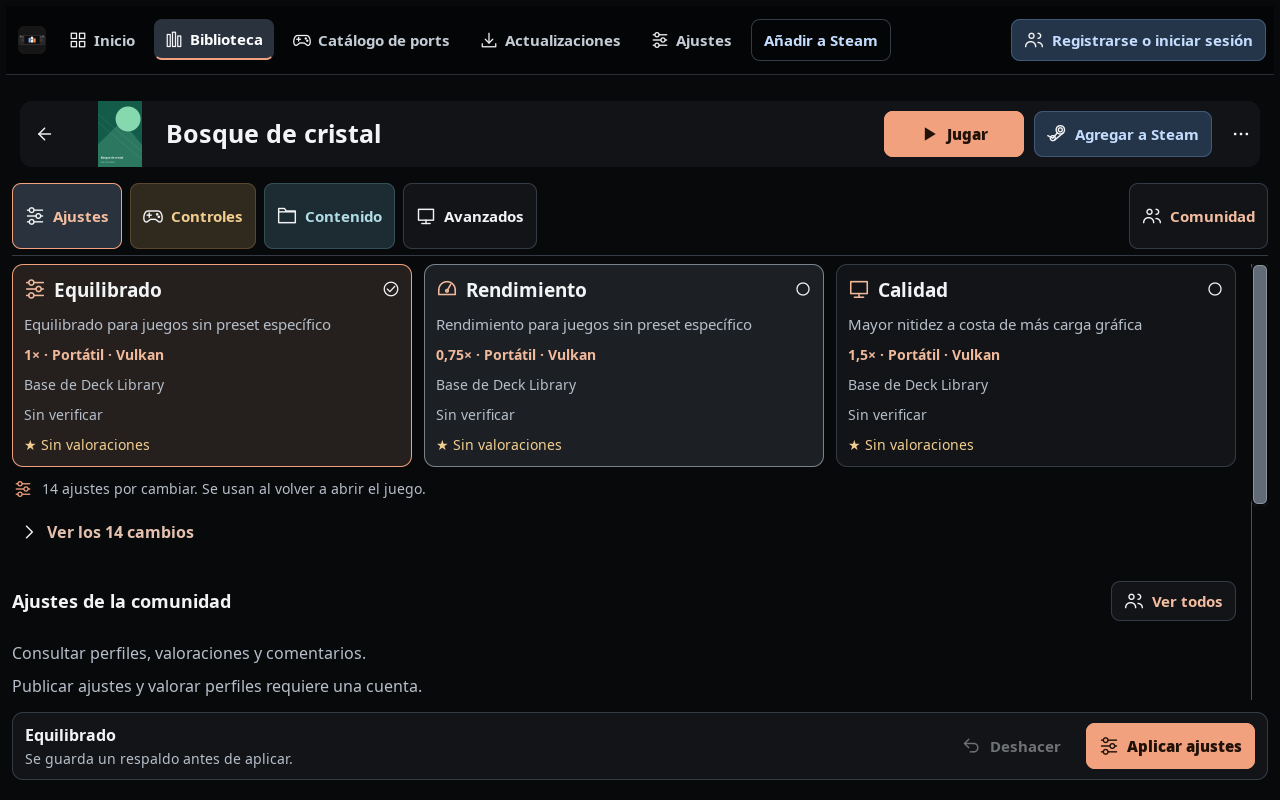
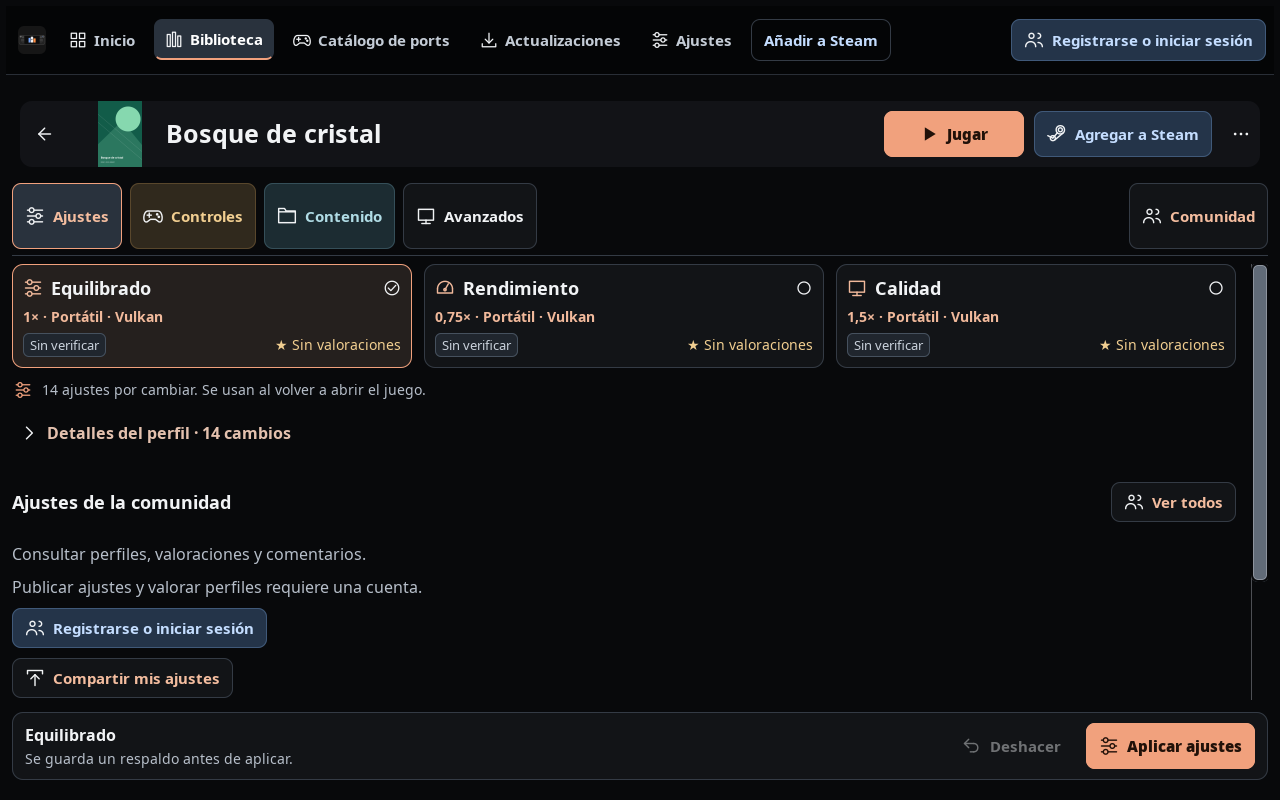
Color port badges and compact profiles with expandable details

diff --git a/deck_library/gui_game.py b/deck_library/gui_game.py
@@ -3,7 +3,7 @@ import json
 from gi.repository import Gtk, GLib, Pango
 from . import presets, motion, profile_display as display
 from .artwork import find_cover
-from .ui_components import ActionButton, TaskButton, Icon, Reveal, GameBackdrop, styled, text, tooltip_when_cut
+from .ui_components import ActionButton, TaskButton, Icon, Reveal, GameBackdrop, styled, text, tooltip_when_cut, badge
 
 
 class GameMixin:
@@ -308,10 +308,10 @@ class GameMixin:
         card = Gtk.Button()
         styled(card, 'profile-card')
         card.profile_id = profile['id']
-        body = Gtk.Box(orientation=Gtk.Orientation.VERTICAL, spacing=10)
+        body = Gtk.Box(orientation=Gtk.Orientation.VERTICAL, spacing=6)
         top = Gtk.Box(spacing=8)
         icon_name, description = display.intent(profile)
-        top.pack_start(styled(Icon(icon_name,22),'violet-icon'), False, False, 0)
+        top.pack_start(styled(Icon(icon_name,20),'violet-icon'), False, False, 0)
         title = text(display.title(profile), 'profile-title', 26)
         title.set_lines(2)
         title.set_ellipsize(Pango.EllipsizeMode.END)
@@ -319,19 +319,14 @@ class GameMixin:
         card.selection_icon = Icon('radio',18)
         top.pack_end(card.selection_icon, False, False, 0)
         body.pack_start(top, False, False, 0)
-        subtitle = text(description,'muted',40)
-        subtitle.set_lines(2)
-        subtitle.set_ellipsize(Pango.EllipsizeMode.END)
-        body.pack_start(subtitle, True, True, 0)
         values = display.highlights(profile)
         summary = ' · '.join(value for _,value in values)
-        body.pack_start(text(summary or profile['author'], 'profile-spec', 40), False, False, 0)
+        spec=text(summary or description, 'profile-spec', 40);spec.set_line_wrap(False);spec.set_ellipsize(Pango.EllipsizeMode.END);body.pack_start(spec, False, False, 0)
         state = display.verification(profile)+(' · Favorito' if favourite else '')
-        source='Integrado en Deck Library' if presets.is_bundled(profile) else 'Comunidad' if profile['id'].startswith('community-') else 'Base de Deck Library' if profile['id'].endswith(('-default','-performance','-quality','-compatibility')) and profile['id'].startswith('eden-') else 'Perfil local'
-        body.pack_start(text(source,'meta',40),False,False,0)
-        body.pack_start(text(state, 'good' if profile['tested']['status']!='proposal' else 'meta', 40), False, False, 0)
-        card.rating_label=text('★ Sin valoraciones','rating',40)
-        body.pack_start(card.rating_label,False,False,0)
+        foot=Gtk.Box(spacing=8)
+        verified=badge(display.verification(profile),'green' if profile['tested']['status']!='proposal' else 'neutral',22);verified.set_tooltip_text(state);foot.pack_start(verified,False,False,0)
+        card.rating_label=text('★ Sin valoraciones','rating',20);card.rating_label.set_line_wrap(False);card.rating_label.set_ellipsize(Pango.EllipsizeMode.END)
+        foot.pack_end(card.rating_label,False,False,0);body.pack_start(foot,False,False,0)
         card.add(body)
         card.get_accessible().set_name(display.title(profile)+' · '+description+' · '+state)
         card.set_tooltip_text(profile['name']+'\n'+profile['objective'])
@@ -347,8 +342,10 @@ class GameMixin:
         details = Gtk.Box(orientation=Gtk.Orientation.VERTICAL,spacing=12)
         details.set_border_width(12)
         styled(details,'change-details')
+        objective=text('','title',100);details.pack_start(objective,False,False,0)
         provenance = text('', 'meta', 100)
         details.pack_start(provenance,False,False,0)
+        specifications=text('','profile-spec',100);details.pack_start(specifications,False,False,0)
         notes = text('', 'muted',100)
         details.pack_start(notes,False,False,0)
         changes = Gtk.Box(orientation=Gtk.Orientation.VERTICAL,spacing=6)
@@ -388,18 +385,22 @@ class GameMixin:
                 card.selection_icon.queue_draw()
                 card.get_accessible().set_description('Seleccionado' if active else 'Seleccionar perfil')
             self.profile_dock_title.set_text(display.title(profile))
-            provenance.set_text(profile['author']+' · '+display.verification(profile)+' · '+', '.join(profile['adapter']['versions']))
+            objective.set_text(profile['objective'])
+            source='Integrado en Deck Library' if presets.is_bundled(profile) else 'Comunidad' if profile['id'].startswith('community-') else 'Base de Deck Library' if profile['id'].endswith(('-default','-performance','-quality','-compatibility')) and profile['id'].startswith('eden-') else 'Perfil local'
+            provenance.set_text(source+' · '+profile['author']+' · '+display.verification(profile)+(' · Favorito' if profile['id']==best else '')+' · '+', '.join(profile['adapter']['versions']))
+            specifications.set_text(' · '.join(name+': '+value for name,value in display.highlights(profile)))
             guide='\n\n'.join(v for v in (profile.get('notes',''),profile.get('instructions',''),('Entorno: '+profile['runtime']['kind']+' '+profile['runtime'].get('version','')+'\n'+profile['runtime'].get('launch_options','')) if profile.get('runtime') else '') if v)
             notes.set_text(guide)
             notes.set_visible(bool(guide))
             if not presets.automatic(profile):
                 self.profile_status.set_text('Guía manual · Los pasos y comandos se muestran como texto.')
                 self.profile_dock_note.set_text('Revisar las instrucciones del perfil.');self.profile_apply.set_sensitive(False)
-                self.profile_disclosure.control.set_label('Ver instrucciones');self.profile_disclosure.revealer.set_reveal_child(True)
+                self.profile_disclosure.control.set_label('Ver instrucciones');self.profile_disclosure.revealer.set_reveal_child(True);self.profile_disclosure.control.set_icon('down')
                 changes.show_all();return
             self.reset_page(changes)
             self.profile_apply.get_style_context().remove_class('applied')
             self.profile_disclosure.revealer.set_reveal_child(False)
+            self.profile_disclosure.control.set_icon('chevron')
             try:
                 _, differences = display.differences(entry,profile,self.preferences.get('eden_config') or None)
                 from .gui_tools import SETTING_LABELS
@@ -420,7 +421,7 @@ class GameMixin:
                 self.profile_apply.set_sensitive(bool(count) and not getattr(self,'profile_job',False))
                 self.profile_feedback_icon.name = 'sliders' if count else 'check'
                 self.profile_feedback_icon.queue_draw()
-                self.profile_disclosure.control.set_label(f'Ver los {count} cambios' if count else 'Ver detalles del perfil')
+                self.profile_disclosure.control.set_label(f'Detalles del perfil · {count} cambios' if count else 'Ver detalles del perfil')
                 if not count:self.profile_apply.get_style_context().add_class('applied')
             except Exception as error:
                 self.profile_status.set_text('Falta completar la configuración: '+str(error))

diff --git a/deck_library/gui_catalog.py b/deck_library/gui_catalog.py
@@ -7,6 +7,7 @@ from .inline_pages import InlineDialog
 from . import ports
 from .installations import save_settings
 from .service import queue_removals
+from .ui_components import badge,badge_row
 
 ART_WIDTH=88
 CATALOG_PAGE=30
@@ -16,6 +17,15 @@ def fit_badge(fit,long=False):
     s=fit['score']
     if long:return {'alta':f'Compatibilidad estimada: {s}% · Alta','media':f'Compatibilidad estimada: {s}% · Media','baja':f'Compatibilidad estimada: {s}% · Baja','muy baja':f'Compatibilidad estimada: {s}% · Muy baja'}[fit['level']]
     return {'alta':f'Compatibilidad {s}% · Alta','media':f'Compatibilidad {s}% · Media','baja':f'Compatibilidad {s}% · Baja','muy baja':f'Compatibilidad {s}% · Muy baja'}[fit['level']]
+
+def compatibility_badge(fit,long=False):
+    tone={'alta':'green','media':'yellow','baja':'orange','muy baja':'red'}[fit['level']]
+    widget=badge(fit_badge(fit,long),tone,60 if long else 32)
+    widget.get_style_context().add_class('compatibility-badge')
+    widget.set_tooltip_text(fit_badge(fit,True));return widget
+
+def system_tags(item):
+    return [('Linux / Steam Deck' if name.lower()=='linux' else name.capitalize(),{'linux':'green','windows':'blue','macos':'violet','mac':'violet','android':'yellow'}.get(name.lower(),'neutral')) for name in item.get('supported_os',[])] or [('Sistemas por consultar','neutral')]
 
 class CatalogMixin:
     def catalog_page(self):
@@ -103,16 +113,18 @@ class CatalogMixin:
                 project=label(item['name'],'meta');project.set_lines(1);project.set_ellipsize(Pango.EllipsizeMode.END);project.set_max_width_chars(26);texts.pack_start(project,False,False,0)
             if item.get('description'):
                 description=label(item['description'],'status');description.set_lines(1 if compact else 2);description.set_max_width_chars(30);description.set_ellipsize(Pango.EllipsizeMode.END);texts.pack_start(description,False,False,0)
-            from .port_requirements import original_requirement
-            original=original_requirement(item);requirement=label(('ROM · '+original['label']) if original['known'] else original['label'],'original-required' if original['known'] else 'meta');requirement.set_lines(1);requirement.set_max_width_chars(30);requirement.set_ellipsize(Pango.EllipsizeMode.END);requirement.set_tooltip_text(original['details']);texts.pack_start(requirement,False,False,0)
-            fit=ports.compatibility(item);tags=[t for t in (item['list'],'Revisado' if ports.is_reviewed(item) else 'Sin revisar','Constructor' if item.get('package_role')=='builder' else 'Solo código fuente' if item.get('package_role') in ('source-only','build-tool') else '') if t]
-            os=label(' · '.join('Linux / Steam Deck' if s.lower()=='linux' else s.capitalize() for s in item.get('supported_os',[])) or 'Sistemas por consultar','os-badge');os.set_lines(1);os.set_ellipsize(Pango.EllipsizeMode.END);os.set_max_width_chars(27);texts.pack_start(os,False,False,0)
-            if record:texts.pack_start(label('Instalado · '+record['tag'],'install-state'),False,False,0)
+            original=original_requirement(item);requirement=badge(('ROM · '+original['label']) if original['known'] else original['label'],'yellow' if original['known'] else 'neutral');requirement.set_tooltip_text(original['details']);texts.pack_start(requirement,False,False,0)
+            fit=ports.compatibility(item);reviewed=ports.is_reviewed(item);tags=([(item['list'],'violet')] if item['list'] else [])+[('Revisado','green') if reviewed else ('Sin revisar','neutral')]
+            role=item.get('package_role')
+            if role=='builder':tags.append(('Constructor','yellow'))
+            elif role in ('source-only','build-tool'):tags.append(('Solo código fuente','orange'))
+            texts.pack_start(badge_row(system_tags(item)),False,False,0)
+            if record:texts.pack_start(badge('Instalado · '+record['tag'],'green'),False,False,0)
             when=item.get('added_at') or item.get('first_seen') or 0
-            if when:tags.append(('Nuevo · ' if time.time()-when<30*86400 else 'Añadido ')+datetime.datetime.fromtimestamp(when).strftime('%d/%m/%Y'))
-            if tags:
-                meta=label(' · '.join(tags),'pill');meta.set_lines(2);meta.set_max_width_chars(30);meta.set_ellipsize(Pango.EllipsizeMode.END);texts.pack_start(meta,False,False,0)
-            estimate=label(fit_badge(fit),'meta');estimate.set_tooltip_text(fit_badge(fit,True));estimate.set_max_width_chars(30);texts.pack_start(estimate,False,False,0)
+            if when:
+                recent=time.time()-when<30*86400;tags.append((('Nuevo · ' if recent else 'Añadido ')+datetime.datetime.fromtimestamp(when).strftime('%d/%m/%Y'),'blue' if recent else 'neutral'))
+            texts.pack_start(badge_row(tags),False,False,0)
+            texts.pack_start(compatibility_badge(fit),False,False,0)
             if item['note']:
                 note=label(item['note'],'status');note.set_lines(2);note.set_max_width_chars(30);note.set_ellipsize(Pango.EllipsizeMode.END);texts.pack_start(note,False,False,0)
             if item.get('bios') or item.get('disc'):
@@ -156,9 +168,10 @@ class CatalogMixin:
         tool='utilit' in item.get('list','').casefold()
         heading=item.get('game_title') or ('Herramienta para ports' if tool else item['name']);text.pack_start(label(heading,'game-title'),False,False,0)
         if heading.casefold()!=item['name'].casefold():text.pack_start(label('Port: '+item['name'],'subtitle'),False,False,0)
-        facts=[item['list'] or 'Plataforma sin especificar',', '.join(item.get('supported_os',[])) or 'Sistemas por consultar',item['source']]
-        text.pack_start(label('  ·  '.join(f for f in facts if f),'pill'),False,False,0)
-        fit=ports.compatibility(item);text.pack_start(label(fit_badge(fit,True),'pill'),False,False,0)
+        facts=[(item['list'] or 'Plataforma sin especificar','violet'),*system_tags(item)]
+        if item['source']:facts.append((item['source'],'neutral'))
+        text.pack_start(badge_row(facts),False,False,0)
+        fit=ports.compatibility(item);text.pack_start(compatibility_badge(fit,True),False,False,0)
         text.pack_start(label(' '.join(fit['reasons'])+' Estimación a partir de los datos del catálogo; no es una prueba de juego.','muted'),False,False,0)
         if item.get('release_version'):text.pack_start(label('Versión disponible: '+item['release_version'],'muted'),False,False,0)
         if item.get('release_at'):text.pack_start(label('Publicada el '+datetime.datetime.fromtimestamp(item['release_at']).strftime('%d/%m/%Y'),'muted'),False,False,0)

diff --git a/tests/test_gui_deck.py b/tests/test_gui_deck.py
@@ -153,6 +153,48 @@ class DeckUITests(unittest.TestCase):
             viewport=card.get_ancestor(Gtk.ScrolledWindow);point=card.translate_coordinates(viewport,0,0)
             self.assertGreaterEqual(point[1],0)
             self.assertLessEqual(point[1]+card.get_allocated_height(),viewport.get_allocated_height())
+
+    def test_compact_profiles_keep_full_details_behind_a_controller_disclosure(self):
+        from gi.repository import Gtk
+        self.w.resize(1280,800);self.w.select_game(self.w.entries[0]);self.settle()
+        self.assertEqual(len(self.w.profile_card_box.get_children()),3)
+        self.assertTrue(all(card.get_allocated_height()<=135 for card in self.w.profile_cards[:3]))
+        disclosure=self.w.profile_disclosure
+        self.assertFalse(disclosure.revealer.get_reveal_child())
+        with patch('deck_library.presets.apply',side_effect=AssertionError('Preview must not apply settings')):
+            disclosure.control.grab_focus();self.w.last_controller_action=('',0);self.w.controller_action('activate');self.settle()
+            self.assertTrue(disclosure.revealer.get_child_revealed())
+            def labels(widget):
+                if isinstance(widget,Gtk.Label):yield widget
+                if isinstance(widget,Gtk.Container):
+                    for child in widget.get_children():yield from labels(child)
+            self.assertTrue(any(l.get_mapped() and l.get_text()==self.w.profile_selection['objective'] for l in labels(disclosure)))
+            self.w.profile_cards[1].clicked();self.settle()
+            self.assertFalse(disclosure.revealer.get_reveal_child())
+            disclosure.control.clicked();self.settle()
+            self.assertTrue(any(l.get_text()==self.w.profile_selection['objective'] for l in labels(disclosure)))
+        self.w.resize(840,640);self.settle();self.assertLessEqual(self.w.get_size().width,840)
+        x,y=self.w.profile_apply.translate_coordinates(self.w,0,0)
+        self.assertLessEqual(y+self.w.profile_apply.get_allocated_height(),640)
+
+    def test_coloured_compatibility_badges_keep_the_percentage_and_readable_contrast(self):
+        from gi.repository import Gtk
+        from deck_library.gui_catalog import compatibility_badge
+        self.w.reset_page(self.w.catalog_box);badges=[]
+        for score,level in ((88,'alta'),(72,'media'),(50,'baja'),(8,'muy baja')):
+            label=compatibility_badge({'score':score,'level':level});self.w.catalog_box.pack_start(label,False,False,0);badges.append(label)
+            self.assertIn(str(score)+'%',label.get_text())
+        self.w.catalog_box.get_ancestor(Gtk.ScrolledWindow).show_all();self.w.pages.set_visible_child_name('catalog');self.settle()
+        def luminance(color):
+            values=[v/12.92 if v<=.04045 else ((v+.055)/1.055)**2.4 for v in (color.red,color.green,color.blue)]
+            return .2126*values[0]+.7152*values[1]+.0722*values[2]
+        backgrounds=[]
+        for label in badges:
+            style=label.get_style_context();fg=style.get_color(Gtk.StateFlags.NORMAL);bg=style.get_background_color(Gtk.StateFlags.NORMAL)
+            bright,dark=sorted((luminance(fg),luminance(bg)),reverse=True)
+            self.assertGreaterEqual((bright+.05)/(dark+.05),4.5);self.assertGreater(bg.alpha,.99)
+            backgrounds.append(bg.to_string())
+        self.assertEqual(len(set(backgrounds)),4)
     def test_deck_game_sections_keep_the_full_width_and_visible_navigation(self):
         from gi.repository import Gtk
         self.w.resize(1280,800);self.w.select_game(self.w.entries[0]);self.settle()

diff --git a/deck_library/ui_theme.py b/deck_library/ui_theme.py
@@ -26,6 +26,15 @@ label.meta,label.status,label.muted,label.subtitle { color:@dim; font-weight:400
 label.meta,label.status { font-size:14px; }
 label.library-count { font-size:15px; }
 label.original-required { color:#f1ce90; font-size:14px; font-weight:700; }
+label.tag,button label.tag { font-size:13px; font-weight:600; border:1px solid #46515e; border-radius:6px; padding:2px 6px; color:#c8d0da; background:#20262e; }
+flowbox.tag-row > flowboxchild { padding:0; }
+label.tag-green,button label.tag-green { color:#a4e9be; background:#182e24; border-color:#365e48; }
+label.tag-blue,button label.tag-blue { color:#b6d7ff; background:#1d2c41; border-color:#3b5475; }
+label.tag-violet,button label.tag-violet { color:#dbcbff; background:#2a243b; border-color:#55476e; }
+label.tag-yellow,button label.tag-yellow { color:#f5df9a; background:#302b1c; border-color:#645333; }
+label.tag-orange,button label.tag-orange { color:#ffc199; background:#35271e; border-color:#735039; }
+label.tag-red,button label.tag-red { color:#ffb8b2; background:#352225; border-color:#704147; }
+label.compatibility-badge,button label.compatibility-badge { font-size:14px; font-weight:700; padding:4px 8px; }
 label.hero,label.welcome-title,label.game-title,.inline-page-heading { font-family:"Space Grotesk Light","Noto Sans",Sans; font-size:28px; font-weight:700; letter-spacing:-0.4px; }
 label.title,label.section-title { font-size:18px; font-weight:700; }
 label.brand { font-family:"Space Grotesk Light",Sans; font-size:21px; font-weight:700; }
@@ -108,11 +117,11 @@ button.game-section.active { background:#29323d; border-color:@accent; }
 label.game-title { font-size:28px; }
 .compact label.game-title { font-size:25px; }
 button.hero-cover { padding:0; border:0; border-radius:10px; }
-button.profile-card { background:@surface; border:1px solid @line; border-radius:11px; padding:14px; }
+button.profile-card { background:@surface; border:1px solid @line; border-radius:11px; padding:10px; }
 button.profile-card:hover { background:@raised; border-color:#79828d; }
 button.profile-card.chosen { background:#25201e; border-color:@accent; }
 button.profile-card label { font-weight:400; }
-button.profile-card label.profile-title { color:@text; font-size:19px; font-weight:700; }
+button.profile-card label.profile-title { color:@text; font-size:18px; font-weight:700; }
 button.profile-card label.profile-spec,.violet-icon { color:#f1b99b; font-size:14px; font-weight:600; }
 button.profile-card label.meta { font-size:14px; }
 label.rating { color:#f1ce90; font-size:14px; }
@@ -155,7 +164,7 @@ label.control-glyph { background:#1c2025; border:1px solid #616b78; border-radiu
 label.control-stick { border-radius:14px; min-width:16px; padding:3px 5px; }
 label.control-caption { color:@dim; font-size:13px; }
 .deck-density .card,.deck-density .surface-panel { padding:12px; }
-.deck-density button.profile-card { padding:11px; }
+.deck-density button.profile-card { padding:10px; }
 .deck-density .app-header button { min-height:26px; }
 .deck-density .app-header { padding:3px 8px; }
 .deck-density .settings-row { padding:10px 2px; }

diff --git a/deck_library/ui_components.py b/deck_library/ui_components.py
@@ -38,6 +38,23 @@ def text(value, style=None, limit=None):
     return widget
 
 
+def badge(value, tone='neutral', limit=32):
+    widget=styled(text(value),'tag','tag-'+tone)
+    widget.set_line_wrap(False);widget.set_ellipsize(Pango.EllipsizeMode.END)
+    widget.set_max_width_chars(limit);widget.set_halign(Gtk.Align.START)
+    widget.set_tooltip_text(value)
+    return widget
+
+
+def badge_row(values):
+    row=styled(Gtk.FlowBox(),'tag-row');row.set_selection_mode(Gtk.SelectionMode.NONE);row.set_can_focus(False)
+    row.set_min_children_per_line(1);row.set_max_children_per_line(12)
+    row.set_column_spacing(6);row.set_row_spacing(5)
+    for value,tone in values:
+        row.add(badge(value,tone));row.get_children()[-1].set_can_focus(False)
+    return row
+
+
 class Icon(Gtk.DrawingArea):
     """Own line icons, drawn at the current text colour. Hover motion has a finite lifetime."""
     def __init__(self, name, size=20):

diff --git a/deck_library/__init__.py b/deck_library/__init__.py
@@ -1,2 +1,2 @@
 """Deck Library — native Linux library and Steam shortcut manager."""
-__version__ = '1.2.0'
+__version__ = '1.2.1'

diff --git a/README.md b/README.md
@@ -43,7 +43,7 @@ For a game already in Steam, **Play** uses its existing Steam shortcut and contr
 
 The first launch opens a four-step Spanish onboarding flow: welcome, installation/game detection, artwork provider and library handoff. Discovery runs in the background. Users can add a missing folder or configure an emulator instead of guessing where to start. Repeat onboarding from **Settings**.
 
-The top tabs are **Home**, **Library**, **Port catalog**, **Updates** and **Settings**. Home shows installed ports, actual library totals, storage and discovery tools; choose Home or Library as the startup page under Covers and appearance. Library fills the window with 2:3 portrait cards, platform filters and search. Open a cover for the game overview: a highlighted **Play** button, blue **Add to Steam**, selectable settings cards and a fixed **Apply settings** action. Selecting a card only previews the profile; changes are written, with a backup, after applying. Technical differences expand under **View changes**. The persistent **Controls**, **Content** and **Advanced** tabs open dedicated task pages. Settings cards use the full width and **Community** remains available in the same tab bar. **More options** contains import/export, artwork and shortcut tools. **Select** reveals batch controls only when needed. **Port catalog** uses landscape cards with game artwork, project names and installation actions. Reviewed ROM requirements appear on the card and in search: disc IDs such as SLUS/SCUS, region, revision or required update, depending on the project. Open the card for format details and its source. Unreviewed requirements say **ROM requirements unconfirmed**; this is not a claim of universal ROM compatibility. Use **Settings → Installations and folders** to add discovery folders.
+The top tabs are **Home**, **Library**, **Port catalog**, **Updates** and **Settings**. Home shows installed ports, actual library totals, storage and discovery tools; choose Home or Library as the startup page under Covers and appearance. Library fills the window with 2:3 portrait cards, platform filters and search. Open a cover for the game overview: a highlighted **Play** button, blue **Add to Steam**, selectable settings cards and a fixed **Apply settings** action. Compact profile cards keep the name, summary, verification and rating visible. Select a card and expand **Profile details** for its objective, source, instructions and changes. Selecting or expanding never writes settings; applying saves them with a backup. The persistent **Controls**, **Content** and **Advanced** tabs open dedicated task pages. Settings cards use the full width and **Community** remains available in the same tab bar. **More options** contains import/export, artwork and shortcut tools. **Select** reveals batch controls only when needed. **Port catalog** uses landscape cards with game artwork, project names and installation actions. Reviewed ROM requirements appear on the card and in search: disc IDs such as SLUS/SCUS, region, revision or required update, depending on the project. Open the card for format details and its source. Unreviewed requirements say **ROM requirements unconfirmed**; this is not a claim of universal ROM compatibility. Colored tags distinguish systems and review status. Compatibility estimates keep their percentage and level text, with green, yellow, orange or red for high, medium, low or very low. Use **Settings → Installations and folders** to add discovery folders.
 
 Steam changes accumulate in a persistent banner and are saved when Steam closes. No restart prompt interrupts each change. Settings → Add Deck Library to Steam prepares a fullscreen Gaming Mode shortcut with Deck navigation controls. The library also offers portrait cards, thumbnails in list view, platform groups and a read-only conflict report. See [Deck interface](docs/DECK-INTERFACE.md) and [optional community server](community/README.md). Physical Gaming Mode validation remains a separate check.
 
@@ -184,7 +184,7 @@ GTK is imported only for the graphical interface. Core tests don't require a dis
 
 ## Status
 
-Version **1.2.0**. Core tests cover binary Steam preservation, malformed/concurrent writes, command quoting, discovery, launch errors and mod isolation. Desktop and Gaming Mode require separate integration validation; test results are recorded in `docs/VALIDATION.md`. Source and downloadable releases: [GonzaCass/deck-library](https://github.com/GonzaCass/deck-library).
+Version **1.2.1**. Core tests cover binary Steam preservation, malformed/concurrent writes, command quoting, discovery, launch errors and mod isolation. Desktop and Gaming Mode require separate integration validation; test results are recorded in `docs/VALIDATION.md`. Source and downloadable releases: [GonzaCass/deck-library](https://github.com/GonzaCass/deck-library).
 
 Version 1.0 covers the catalog with install and uninstall, the library, per-game settings, Steam integration and the English and Spanish interface, all covered by automated tests. **Not yet validated:** navigation with a physical gamepad in Gaming Mode and playing an installed port from start to finish; see `docs/V1-CHECKLIST.md` (in Spanish). Release history: [docs/CHANGELOG.md](docs/CHANGELOG.md) and the [published releases](https://github.com/GonzaCass/deck-library/releases).
 
@@ -345,11 +345,11 @@ En la ficha de un juego con acceso en Steam, **Más opciones → Archivos y acce
 
 ### ROM necesaria para cada port
 
-Las tarjetas del catálogo muestran los requisitos revisados del original: identificador de disco (SLUS, SCUS, RMCP, CUSA, etc.), región, revisión o actualización, según el proyecto. Se puede buscar por esos identificadores. Al abrir la tarjeta se amplían el formato requerido y el enlace al proyecto. Cuando falta verificar esa información aparece **ROM por confirmar**; no se asume que cualquier versión sirva. La etiqueta no descarga originales ni cambia la preparación del port.
+Las tarjetas del catálogo muestran los requisitos revisados del original: identificador de disco (SLUS, SCUS, RMCP, CUSA, etc.), región, revisión o actualización, según el proyecto. Se puede buscar por esos identificadores. Al abrir la tarjeta se amplían el formato requerido y el enlace al proyecto. Cuando falta verificar esa información aparece **ROM por confirmar**; no se asume que cualquier versión sirva. Las etiquetas distinguen sistema, estado de revisión, original e instalación por color. El porcentaje de compatibilidad estimada usa verde (alta), amarillo (media), naranja (baja) o rojo (muy baja), acompañado de texto. La etiqueta no descarga originales ni cambia la preparación del port.
 
 ### Diseño, movimiento y actualizaciones propias
 
-- **Interfaz:** pestañas superiores Inicio, Biblioteca, Catálogo de ports, Actualizaciones y Ajustes. Inicio reúne ports instalados, contadores reales, almacenamiento y herramientas. En Apariencia se puede elegir abrir Resumen o Biblioteca. La biblioteca conserva las carátulas verticales y la vista elegida; la ficha destaca Jugar y diferencia Steam y las tareas por color. Elegir una tarjeta y pulsar **Aplicar ajustes**; seleccionar no escribe cambios. **Ver cambios** despliega los detalles técnicos. Las pestañas **Controles**, **Contenido** y **Avanzados** permanecen visibles al cambiar de tarea. Importar, exportar, carátulas y archivos están en **Más opciones**.
+- **Interfaz:** pestañas superiores Inicio, Biblioteca, Catálogo de ports, Actualizaciones y Ajustes. Inicio reúne ports instalados, contadores reales, almacenamiento y herramientas. En Apariencia se puede elegir abrir Resumen o Biblioteca. La biblioteca conserva las carátulas verticales y la vista elegida; la ficha destaca Jugar y diferencia Steam y las tareas por color. Las tarjetas compactas conservan nombre, resumen, verificación y valoración. Elegir una tarjeta y abrir **Detalles del perfil** para ver objetivo, procedencia, instrucciones y cambios; **Aplicar ajustes** los guarda con respaldo. Seleccionar o desplegar detalles no escribe cambios. Las pestañas **Controles**, **Contenido** y **Avanzados** permanecen visibles al cambiar de tarea. Importar, exportar, carátulas y archivos están en **Más opciones**.
 - **Movimiento:** entrada de la ficha y de las tarjetas, transiciones entre tareas, despliegue de detalles, estados de botones y confirmaciones al guardar. Se desactiva desde **Ajustes → Carátulas y apariencia → Animaciones**.
 - **Ajustes:** la vista previa compara valores del archivo del juego y distingue los perfiles pendientes de los que ya coinciden. Aplicar guarda un respaldo y **Deshacer** restaura la configuración anterior. La edición manual conserva los cambios sin guardar durante una actualización de carátulas o detección.
 - **Clave de SteamGridDB:** Ajustes explica cómo conseguirla (iniciar sesión en steamgriddb.com, Perfil → Preferencias → API), permite mostrarla u ocultarla y tiene un botón **Probar clave**.
@@ -357,7 +357,7 @@ Las tarjetas del catálogo muestran los requisitos revisados del original: ident
 
 ## Instalación
 
-1. Descargar `DeckLibrary-1.2.0.tar.gz` desde [la última versión publicada](https://github.com/GonzaCass/deck-library/releases/latest) y extraerlo en modo Escritorio.
+1. Descargar `DeckLibrary-1.2.1.tar.gz` desde [la última versión publicada](https://github.com/GonzaCass/deck-library/releases/latest) y extraerlo en modo Escritorio.
 2. Abrir la carpeta y hacer doble clic en **Instalar.sh**. Elegir **Ejecutar** cuando Dolphin pregunte.
 3. Se instala la aplicación y se abre. También queda **Deck Library** en el escritorio y en el menú de aplicaciones.
 
@@ -399,7 +399,7 @@ Steam se modifica cuando está cerrado, conservando los demás accesos. Se crea 
 
 ## Estado de esta versión
 
-Versión **1.2.0**. Los resultados de las pruebas están en [docs/VALIDATION.md](docs/VALIDATION.md). El funcionamiento de cada juego depende de su emulador y configuración. El instalador puede volver a ejecutarse para actualizar la app sin borrar la biblioteca.
+Versión **1.2.1**. Los resultados de las pruebas están en [docs/VALIDATION.md](docs/VALIDATION.md). El funcionamiento de cada juego depende de su emulador y configuración. El instalador puede volver a ejecutarse para actualizar la app sin borrar la biblioteca.
 
 La 1.0 incluye el catálogo con instalación y desinstalación, la biblioteca, los ajustes por juego, la integración con Steam y la interfaz en español e inglés, todo cubierto por pruebas automáticas. **Sin validar todavía:** la navegación con mando físico en modo Juego y jugar de punta a punta un port instalado; ver [docs/V1-CHECKLIST.md](docs/V1-CHECKLIST.md). El historial de versiones está en [docs/HISTORIAL.md](docs/HISTORIAL.md) y en las [versiones publicadas](https://github.com/GonzaCass/deck-library/releases).
 

diff --git a/LEEME.md b/LEEME.md
@@ -61,11 +61,11 @@ En la ficha de un juego con acceso en Steam, **Más opciones → Archivos y acce
 
 ### ROM necesaria para cada port
 
-Las tarjetas del catálogo muestran los requisitos revisados del original: identificador de disco (SLUS, SCUS, RMCP, CUSA, etc.), región, revisión o actualización, según el proyecto. Se puede buscar por esos identificadores. Al abrir la tarjeta se amplían el formato requerido y el enlace al proyecto. Cuando falta verificar esa información aparece **ROM por confirmar**; no se asume que cualquier versión sirva. La etiqueta no descarga originales ni cambia la preparación del port.
+Las tarjetas del catálogo muestran los requisitos revisados del original: identificador de disco (SLUS, SCUS, RMCP, CUSA, etc.), región, revisión o actualización, según el proyecto. Se puede buscar por esos identificadores. Al abrir la tarjeta se amplían el formato requerido y el enlace al proyecto. Cuando falta verificar esa información aparece **ROM por confirmar**; no se asume que cualquier versión sirva. Las etiquetas distinguen sistema, estado de revisión, original e instalación por color. El porcentaje de compatibilidad estimada usa verde (alta), amarillo (media), naranja (baja) o rojo (muy baja), acompañado de texto. La etiqueta no descarga originales ni cambia la preparación del port.
 
 ### Diseño, movimiento y actualizaciones propias
 
-- **Interfaz:** pestañas superiores Inicio, Biblioteca, Catálogo de ports, Actualizaciones y Ajustes. Inicio reúne ports instalados, contadores reales, almacenamiento y herramientas. En Apariencia se puede elegir abrir Resumen o Biblioteca. La biblioteca conserva las carátulas verticales y la vista elegida; la ficha destaca Jugar y diferencia Steam y las tareas por color. Elegir una tarjeta y pulsar **Aplicar ajustes**; seleccionar no escribe cambios. **Ver cambios** despliega los detalles técnicos. Las pestañas **Controles**, **Contenido** y **Avanzados** permanecen visibles al cambiar de tarea. Importar, exportar, carátulas y archivos están en **Más opciones**.
+- **Interfaz:** pestañas superiores Inicio, Biblioteca, Catálogo de ports, Actualizaciones y Ajustes. Inicio reúne ports instalados, contadores reales, almacenamiento y herramientas. En Apariencia se puede elegir abrir Resumen o Biblioteca. La biblioteca conserva las carátulas verticales y la vista elegida; la ficha destaca Jugar y diferencia Steam y las tareas por color. Las tarjetas compactas conservan nombre, resumen, verificación y valoración. Elegir una tarjeta y abrir **Detalles del perfil** para ver objetivo, procedencia, instrucciones y cambios; **Aplicar ajustes** los guarda con respaldo. Seleccionar o desplegar detalles no escribe cambios. Las pestañas **Controles**, **Contenido** y **Avanzados** permanecen visibles al cambiar de tarea. Importar, exportar, carátulas y archivos están en **Más opciones**.
 - **Movimiento:** entrada de la ficha y de las tarjetas, transiciones entre tareas, despliegue de detalles, estados de botones y confirmaciones al guardar. Se desactiva desde **Ajustes → Carátulas y apariencia → Animaciones**.
 - **Ajustes:** la vista previa compara valores del archivo del juego y distingue los perfiles pendientes de los que ya coinciden. Aplicar guarda un respaldo y **Deshacer** restaura la configuración anterior. La edición manual conserva los cambios sin guardar durante una actualización de carátulas o detección.
 - **Clave de SteamGridDB:** Ajustes explica cómo conseguirla (iniciar sesión en steamgriddb.com, Perfil → Preferencias → API), permite mostrarla u ocultarla y tiene un botón **Probar clave**.
@@ -73,7 +73,7 @@ Las tarjetas del catálogo muestran los requisitos revisados del original: ident
 
 ## Instalación
 
-1. Descargar `DeckLibrary-1.2.0.tar.gz` desde [la última versión publicada](https://github.com/GonzaCass/deck-library/releases/latest) y extraerlo en modo Escritorio.
+1. Descargar `DeckLibrary-1.2.1.tar.gz` desde [la última versión publicada](https://github.com/GonzaCass/deck-library/releases/latest) y extraerlo en modo Escritorio.
 2. Abrir la carpeta y hacer doble clic en **Instalar.sh**. Elegir **Ejecutar** cuando Dolphin pregunte.
 3. Se instala la aplicación y se abre. También queda **Deck Library** en el escritorio y en el menú de aplicaciones.
 
@@ -115,7 +115,7 @@ Steam se modifica cuando está cerrado, conservando los demás accesos. Se crea 
 
 ## Estado de esta versión
 
-Versión **1.2.0**. Los resultados de las pruebas están en [docs/VALIDATION.md](docs/VALIDATION.md). El funcionamiento de cada juego depende de su emulador y configuración. El instalador puede volver a ejecutarse para actualizar la app sin borrar la biblioteca.
+Versión **1.2.1**. Los resultados de las pruebas están en [docs/VALIDATION.md](docs/VALIDATION.md). El funcionamiento de cada juego depende de su emulador y configuración. El instalador puede volver a ejecutarse para actualizar la app sin borrar la biblioteca.
 
 La 1.0 incluye el catálogo con instalación y desinstalación, la biblioteca, los ajustes por juego, la integración con Steam y la interfaz en español e inglés, todo cubierto por pruebas automáticas. **Sin validar todavía:** la navegación con mando físico en modo Juego y jugar de punta a punta un port instalado; ver [docs/V1-CHECKLIST.md](docs/V1-CHECKLIST.md). El historial de versiones está en [docs/HISTORIAL.md](docs/HISTORIAL.md) y en las [versiones publicadas](https://github.com/GonzaCass/deck-library/releases).
 

diff --git a/docs/VALIDATION.md b/docs/VALIDATION.md
@@ -518,3 +518,10 @@ Se inspeccionó el código y el diseño del ZIP TodoJuegos aportado como referen
 En la pantalla física de 1280×800, dentro de la sesión de Escritorio, se abrió una instancia privada con la interfaz de modo Juego y una copia local de los metadatos. Un mando virtual real de Linux/SDL recorrió las cinco pestañas, abrió una ficha desde Inicio y otra desde Biblioteca, volvió con B al mismo elemento, cargó 30 tarjetas del catálogo, abrió y cerró sus detalles y desplazó la vista con la palanca derecha. La consulta real del catálogo devolvió 751 proyectos; eso no equivale a 751 instalaciones verificadas. Se revisaron capturas de Inicio, Biblioteca, Catálogo y ajustes de juego.
 
 Las pruebas automáticas también cubren ventanas de 840×640. Este recorrido no sustituye una prueba física de los botones en una nueva sesión de Gamescope. No se ejecutaron juegos ni se modificaron sus ajustes, la biblioteca del usuario o sus accesos de Steam durante la validación de interfaz. Las imágenes públicas usan una biblioteca ficticia.
+
+
+## 1.2.1 — Etiquetas de color y perfiles compactos
+
+Se superaron 836 pruebas únicas: 745 de núcleo, 90 de interfaz GTK y la prueba GTK de traducción. La interfaz verifica los cuatro niveles de compatibilidad con porcentajes intactos, fondos distintos y contraste superior a 4,5:1; las tarjetas principales ocupan como máximo 135 píxeles a 1280×800. El control del desplegable funciona con la acción de activar del mando, conserva el objetivo completo del perfil y no aplica ajustes. Cambiar de perfil actualiza el detalle y lo contrae. El botón Aplicar permanece dentro de la ventana a 840×640; los perfiles manuales siguen mostrando instrucciones. Se volvió a comprobar el contraste tras compactar el espaciado de las etiquetas.
+
+Se inspeccionaron las tarjetas compactas y sus detalles abiertos en la pantalla física de 1280×800, en una instancia privada durante la sesión de Escritorio. Un clic real de puntero sobre una etiqueta de sistema abrió correctamente la ficha del port dentro de la app. Se revisó el catálogo con imágenes y etiquetas por nivel; el cálculo de compatibilidad no cambió. Las capturas públicas siguen usando juegos ficticios. No se ejecutaron juegos, no se aplicaron ajustes del usuario y no se inició una nueva sesión de Gamescope.

diff --git a/docs/DECK-INTERFACE.md b/docs/DECK-INTERFACE.md
@@ -39,3 +39,10 @@ La Biblioteca ofrece carátulas verticales, lista con miniaturas y agrupación p
 Cada tarjeta del catálogo muestra el requisito de originales cuando está revisado: por ejemplo SLUS-00875, SLUS-01378 Rev 1, SCUS-94426, RMCP01 PAL, CUSA00223 con actualización 1.07 o una versión de Switch. El buscador incluye esa etiqueta. La ficha amplía región, formato y revisión y enlaza al proyecto. Las entradas sin requisito revisado muestran «ROM por confirmar»; un nombre parecido o un campo recibido de una lista externa no se convierte en un requisito confirmado. Un Title ID de Xbox 360 se distingue de una revisión concreta del disco.
 
 LB/RB recorre las cinco pestañas, la palanca izquierda mueve el selector y la derecha desplaza la vista. B vuelve desde una tarea al juego y luego al origen; desde una ficha abierta en Inicio vuelve al mismo port de Inicio. X abre el teclado de forma explícita y, desde Inicio, lleva al buscador de Biblioteca. Se conservan la inhibición del teclado automático, el desplazamiento táctil y las animaciones opcionales; las transiciones de página siguen deshabilitadas en Gamescope por la limitación documentada de GTK Stack.
+
+
+## Etiquetas y perfiles compactos (1.2.1)
+
+Las etiquetas del catálogo separan por color sistemas, categoría, revisión, fecha de incorporación, requisitos de originales e instalación. La compatibilidad estimada conserva su cálculo, porcentaje y nivel; se muestra en verde, amarillo, naranja o rojo según sea alta, media, baja o muy baja. Los colores tienen texto propio y contraste comprobado. La ficha usa las mismas etiquetas.
+
+Las tarjetas de perfiles muestran nombre, resumen, verificación y valoración. Objetivo, procedencia, autor, versiones, notas e instrucciones aparecen en el desplegable del perfil seleccionado, junto con los cambios previstos. El desplegable empieza cerrado; los perfiles manuales mantienen sus instrucciones abiertas. Seleccionar o desplegar no aplica ajustes. El botón Aplicar sigue fijo y el control del desplegable funciona con mando.

diff --git a/docs/CHANGELOG.md b/docs/CHANGELOG.md
@@ -4,6 +4,7 @@ Every release has its notes on [GitHub](https://github.com/GonzaCass/deck-librar
 
 | Version | Date | Title |
 | --- | --- | --- |
+| [1.2.1](https://github.com/GonzaCass/deck-library/releases/tag/v1.2.1) | 2026-10-26 | Colored catalog tags and compact profiles with expandable details |
 | [1.2.0](https://github.com/GonzaCass/deck-library/releases/tag/v1.2.0) | 2026-10-25 | TodoJuegos-inspired native interface and reviewed original-media labels |
 | [1.1.3](https://github.com/GonzaCass/deck-library/releases/tag/v1.1.3) | 2026-10-25 | Dante's Inferno original-data preparation and Savage Wind Linux installation |
 | [1.0.1](https://github.com/GonzaCass/deck-library/releases/tag/v1.0.1) | 2026-10-22 | Gaming Mode fixes, sign-in button and new icon |
